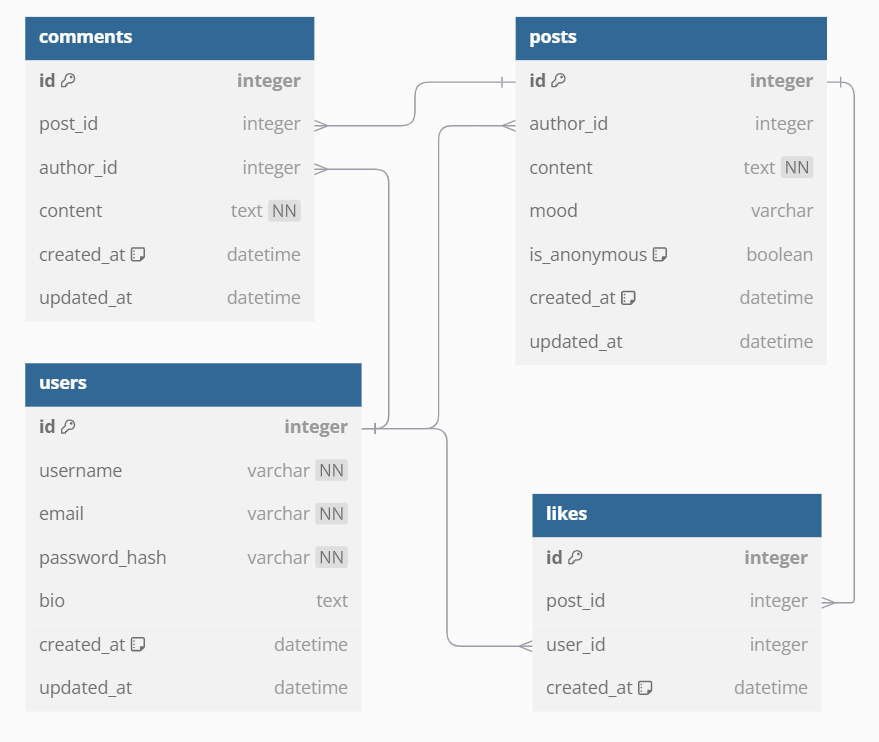
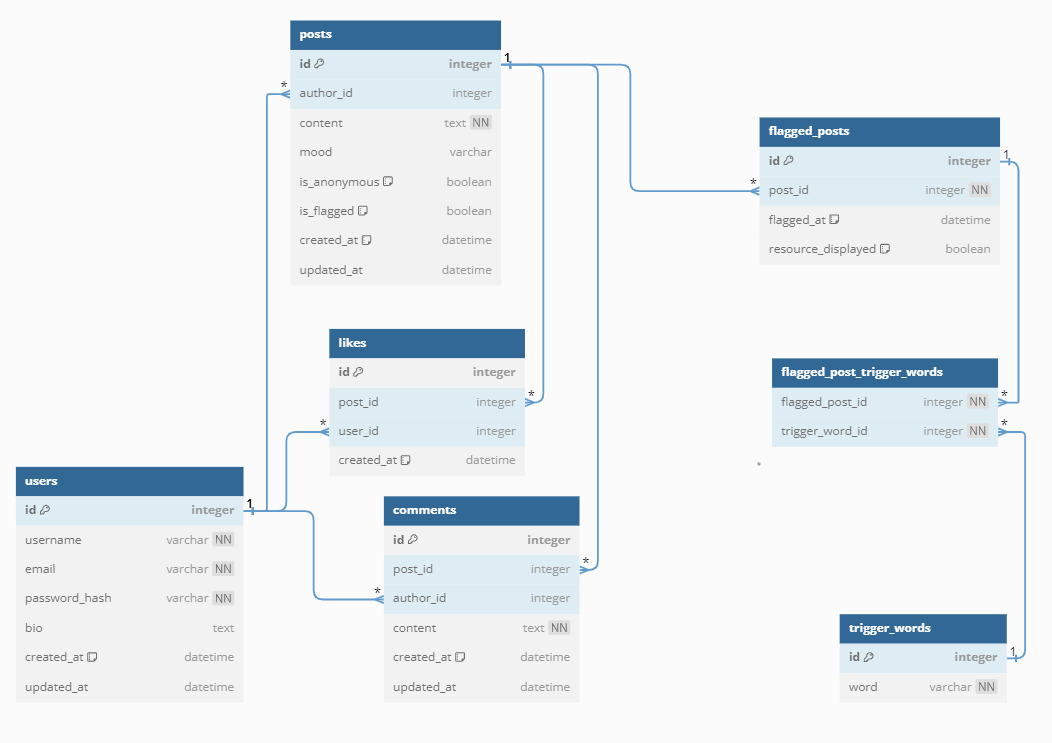
Docs: Refactor README.md to update project information, add table of contents, include project objectives and database schema diagram, and add screenshots

diff --git a/README.md b/README.md
@@ -1,4 +1,4 @@
-# [Blog - How Are You Really](https://pp5-jeff-d4728660c25d.herokuapp.com/#home)
+# [How Are You Really - Full Stack Web Application](https://pp5-jeff-d4728660c25d.herokuapp.com/#home)
 <a href="https://pp5-jeff-d4728660c25d.herokuapp.com/">
   <img src="banner.webp" alt="Blog banner" width="100%">
 </a>
@@ -88,7 +88,7 @@ View the live project [here](https://pp5-jeff-d4728660c25d.herokuapp.com/)
 
 #### Site Map
 - The site map visually outlines the structure of the website, showing the relationships between different pages and sections. It provides an overview of how users will navigate through the platform, ensuring an intuitive user experience.
-
+- ![alt text](site-map.png)
 #### Database Schema
 - The database schema diagram illustrates the data model used in the application. It includes the tables, their relationships, and key fields, ensuring data integrity and efficient data management.
 
@@ -97,6 +97,7 @@ TODO - add Following
 
 
 ## Features
+- TODO - add screenshots
 ### 1. User Authentication
 - **Sign Up and Login**: Users can create an account or log in using modals.
 - **Authentication State Management**: Simulated authentication state for demonstration purposes.
@@ -159,7 +160,8 @@ User Profiles
 
 - Input Validation: Validate user inputs to prevent malicious data entry.
 - Secure Data Transmission: Use HTTPS to encrypt data between the client and server.
-Should Have
+
+### Should Have
 - Important features that add significant value but are not critical for the initial launch.
 
 #### Anonymity Enhancements
@@ -236,6 +238,7 @@ Features that are out of scope for the current project phase but can be consider
 - Badges and Achievements: Reward users for milestones like number of posts or likes.
 - Leaderboards: Display top contributors based on engagement metrics.
 
+
 ## GitHub Projects, Milestones, and Issues
 
 ### GitHub Projects
@@ -248,6 +251,54 @@ Milestones are used to track the progress of significant phases in our project. 
 Issues are used to track tasks, enhancements, and bugs for the project. Each issue is assigned to a team member and linked to a milestone.
 
 For more details, visit the [GitHub Project](https://github.com/users/jeffdruid/projects/4) page.
+
+### Kanban Board
+
+| **Milestone**                | **Issue**                                   | **Priority** | **Description**                                               |
+|------------------------------|---------------------------------------------|--------------|---------------------------------------------------------------|
+| **1. User Authentication**   | Implement Sign Up functionality             | Must Have    | Allow users to create a new account with username and email.  |
+|                              | Implement Login/Logout functionality        | Must Have    | Enable users to log in and out securely.                      |
+|                              | Implement Password Reset feature            | Must Have    | Provide password reset via email.                             |
+| **2. User Profiles**         | Develop View Profile page                   | Must Have    | Users can view their profile details.                         |
+|                              | Develop Edit Profile functionality          | Must Have    | Users can update their profile information (username, email, bio). |
+| **3. Post Management**       | Create Post functionality                   | Must Have    | Users can create new posts with mood selection and anonymity option. |
+|                              | Display Post Feed                           | Must Have    | Show a list of posts in the feed.                             |
+|                              | Implement Edit Post feature                 | Must Have    | Allow users to edit their own posts.                          |
+|                              | Implement Delete Post feature               | Must Have    | Allow users to delete their own posts.                        |
+| **4. Interactive Features**  | Implement Like functionality                | Must Have    | Users can like posts to show appreciation.                     |
+|                              | Implement Comment functionality             | Must Have    | Users can add comments to posts to engage in discussions.      |
+| **5. Responsive Design**     | Ensure responsiveness across devices        | Must Have    | Optimize UI for desktop, tablet, and mobile devices.           |
+| **6. Basic Security Measures**| Implement Input Validation                 | Must Have    | Validate user inputs to prevent malicious data entry.         |
+|                              | Secure data transmission with HTTPS         | Must Have    | Use HTTPS for secure data transfer.                           |
+| **7. Auto Moderation**      | Implement Content Filtering Algorithm       | Must Have    | Develop a simple system to detect trigger words/phrases indicating distress. |
+|                              | Create Basic Trigger Words/Phrases List     | Must Have    | Develop a basic list of trigger words and phrases to monitor.      |
+|                              | Develop Modal with Resources for Flagged Posts | Must Have | Display a modal with mental health resources when a post is flagged. |
+|                              | Hide Flagged Posts from Feed                | Must Have    | Automatically remove or hide posts containing trigger words from the feed. |
+| **8. Anonymity Enhancements**| Enable Anonymous Comments                   | Should Have  | Allow users to comment anonymously.                           |
+|                              | Add Toggle Anonymity option for posts        | Should Have  | Allow users to toggle anonymity for individual posts.          |
+| **9. User Engagement**       | Develop Follow/Unfollow system              | Should Have  | Users can follow or unfollow other users.                     |
+|                              | Implement Notification system              | Should Have  | Notify users when their posts receive likes or comments.      |
+| **10. Post Features**         | Implement Mood Analytics                    | Should Have  | Provide insights into the distribution of moods in posts.     |
+|                              | Develop Search and Filter functionality     | Should Have  | Users can search posts by keywords or filter by mood.          |
+| **11. Enhanced UI/UX**       | Add Dark Mode toggle                        | Should Have  | Provide a toggle between light and dark themes.               |
+|                              | Integrate Animations and Transitions        | Should Have  | Add animations for modals, buttons, and interactions.          |
+| **12. Performance Optimization** | Implement Lazy Loading               | Should Have  | Lazy load images and posts for better performance.             |
+|                              | Add Pagination or Infinite Scroll            | Should Have  | Manage large feeds efficiently with pagination or infinite scroll. |
+| **13. Media Support**        | Enable Image Uploads for posts              | Could Have   | Allow users to attach images to their posts.                   |
+|                              | Allow Avatar Customization                  | Could Have   | Users can upload or choose avatars for profiles.               |
+| **14. Real-Time Features**   | Integrate Live Notifications                | Could Have   | Use WebSockets to notify users in real-time.                   |
+|                              | Implement Real-Time Feed Updates            | Could Have   | New posts, likes, comments update in real-time.                |
+| **15. Advanced Commenting**  | Enable Nested Comments                      | Could Have   | Allow users to reply to specific comments, creating threaded discussions. |
+|                              | Add Like functionality for comments         | Could Have   | Users can like comments.                                      |
+| **16. Analytics Dashboard**  | Provide post performance insights           | Could Have   | Users can view analytics on their posts' performance.          |
+| **17. Accessibility Enhancements** | Ensure WCAG compliance            | Could Have   | Meet accessibility standards for users with disabilities.      |
+|                              | Implement ARIA labels and keyboard navigation | Could Have | Improve accessibility with ARIA and keyboard support.          |
+| **18. Security Enhancements**| Add Two-Factor Authentication (2FA)         | Won't Have   | Implement 2FA for extra security.                              |
+|                              | Integrate OAuth for third-party auth        | Won't Have   | Allow login via Google, Facebook, etc.                         |
+| **19. Monetization Features**| Develop Premium Accounts                    | Won't Have   | Offer premium features for subscribers.                        |
+|                              | Integrate Advertisements                    | Won't Have   | Show ads to generate revenue.                                  |
+| **20. Gamification Elements**| Implement Badges and Achievements           | Won't Have   | Reward users for milestones like number of posts or likes.      |
+|                              | Develop Leaderboards                        | Won't Have   | Show top contributors based on engagement metrics.             |
 
 
 ## Testing
